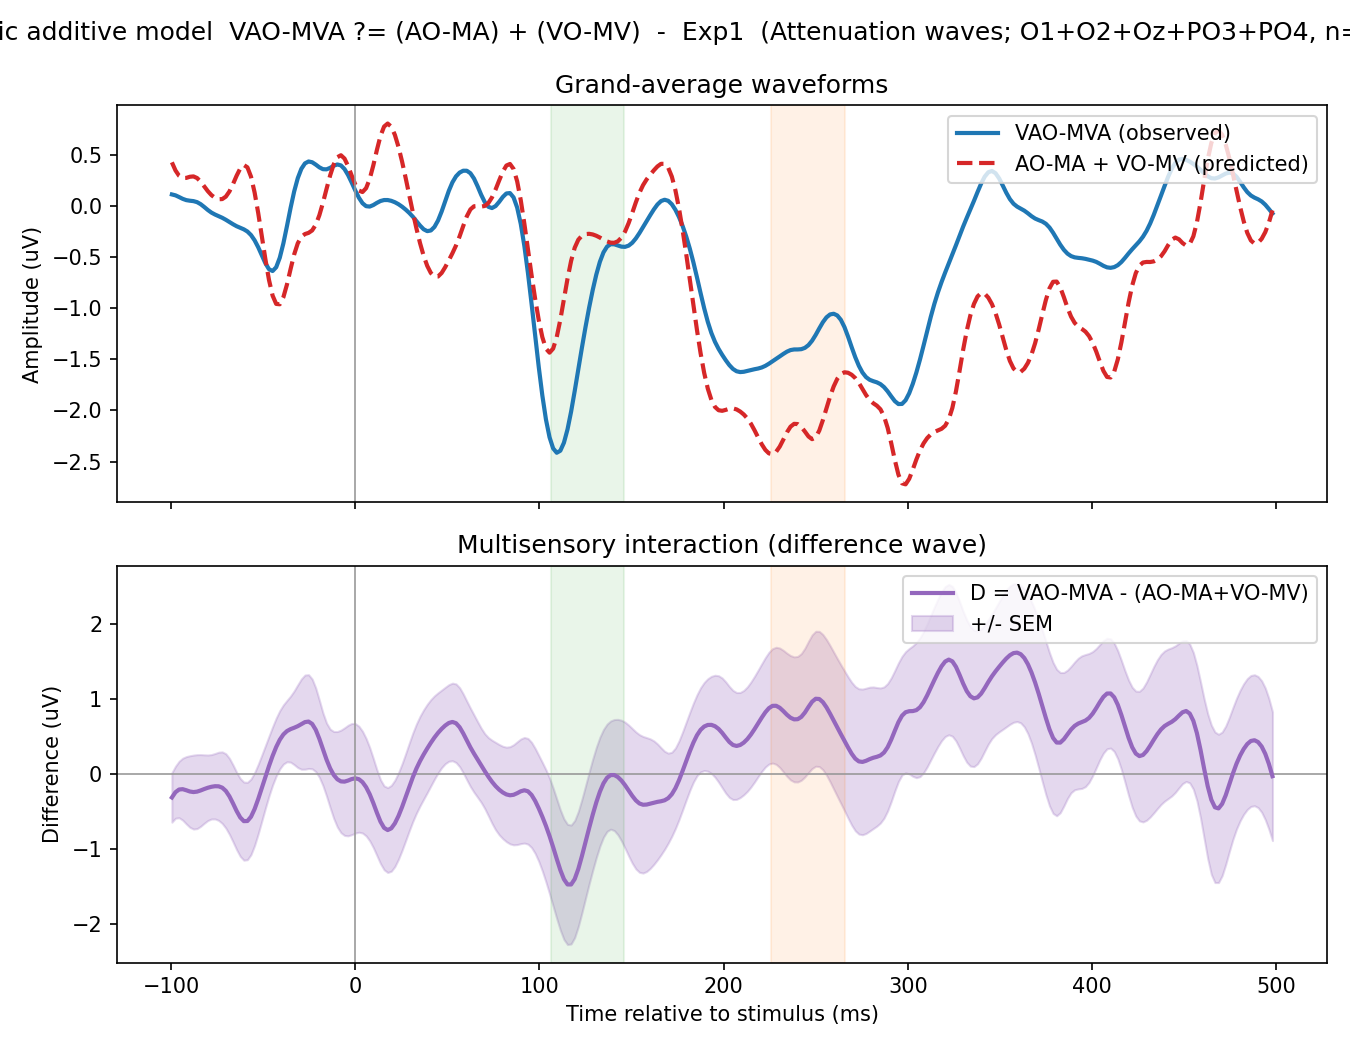
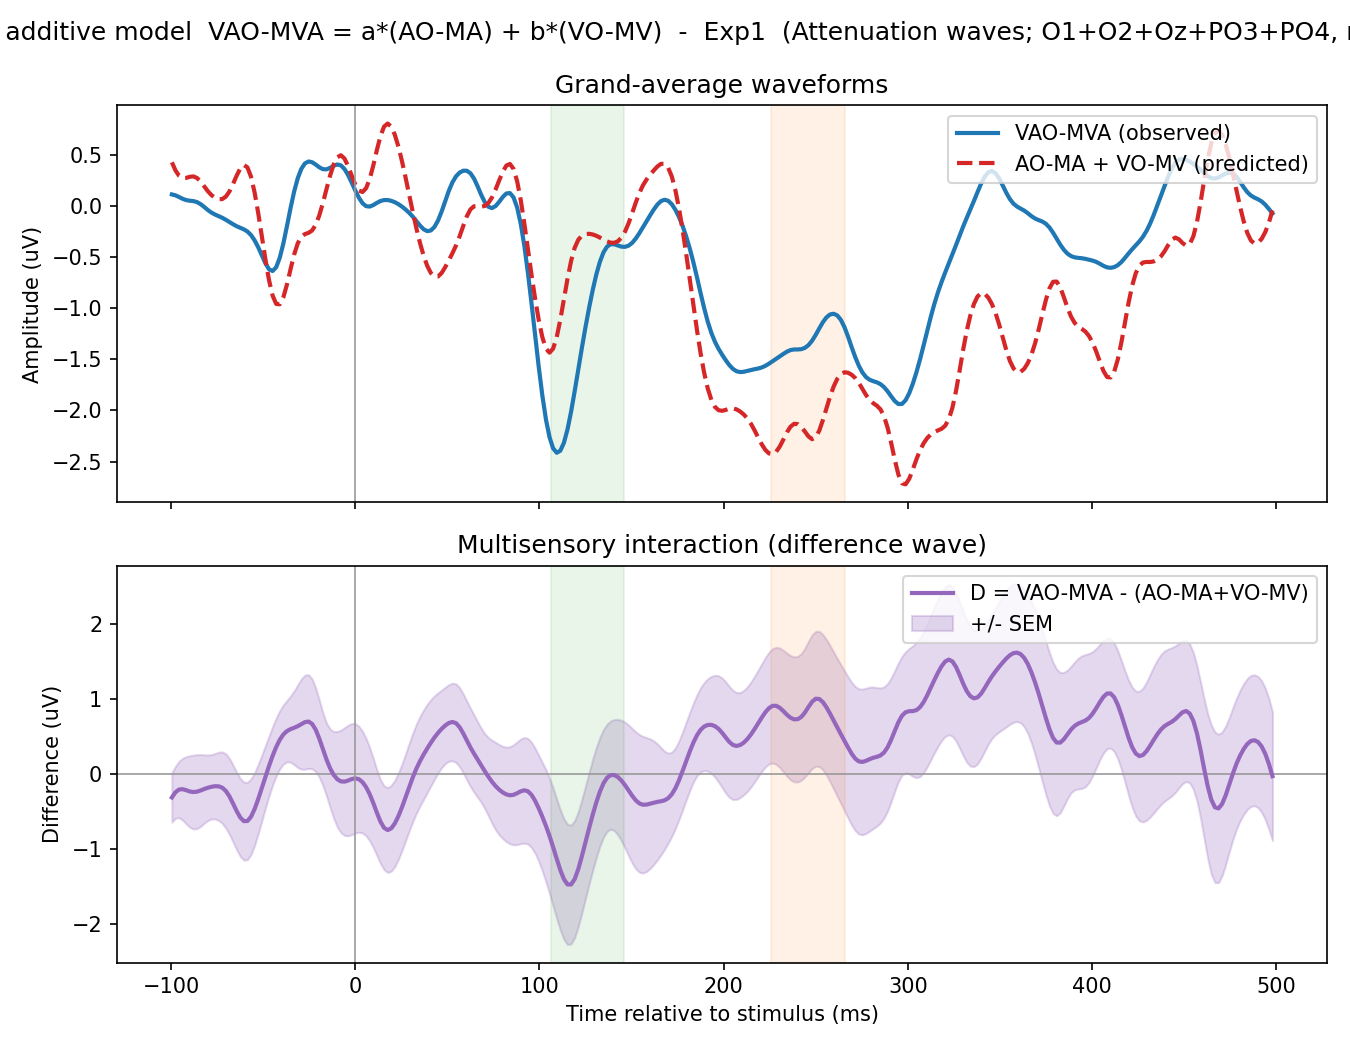
Clean up "?="

Changed region(s): [[0.0, 0.0, 1.0, 0.061]]

diff --git a/analysis/io_utils.py b/analysis/io_utils.py
@@ -274,7 +274,7 @@ ADDITIVITY_MODELS = {
     "replay": AdditivityModel(
         name="replay",
         label="Externally initiated / replay",
-        formula="VAO ?= AO + VO",
+        formula="VAO = a*AO + b*VO",
         target=WaveformExpression("VAO", ((AUDIOVISUAL_CONDITION, 1.0),)),
         audio=WaveformExpression("AO", ((AUDITORY_CONDITION, 1.0),)),
         visual=WaveformExpression("VO", ((VISUAL_CONDITION, 1.0),)),
@@ -282,7 +282,7 @@ ADDITIVITY_MODELS = {
     "self": AdditivityModel(
         name="self",
         label="Self-initiated / motor-corrected",
-        formula="MVA ?= MA + MV",
+        formula="MVA = a*MA + b*MV",
         target=WaveformExpression("MVA", ((SELF_AUDIOVISUAL_CONDITION, 1.0),)),
         audio=WaveformExpression("MA", ((SELF_AUDITORY_CONDITION, 1.0),)),
         visual=WaveformExpression("MV", ((SELF_VISUAL_CONDITION, 1.0),)),
@@ -290,7 +290,7 @@ ADDITIVITY_MODELS = {
     "attenuation": AdditivityModel(
         name="attenuation",
         label="Attenuation waves",
-        formula="VAO-MVA ?= (AO-MA) + (VO-MV)",
+        formula="VAO-MVA = a*(AO-MA) + b*(VO-MV)",
         target=WaveformExpression(
             "VAO-MVA",
             ((AUDIOVISUAL_CONDITION, 1.0), (SELF_AUDIOVISUAL_CONDITION, -1.0)),

diff --git a/analysis/learned_additivity.py b/analysis/learned_additivity.py
@@ -146,7 +146,7 @@ def analyse(experiment: str, site: tuple, model: io.AdditivityModel) -> None:
 
     # --- Figure --------------------------------------------------------------
     fig, axes = plt.subplots(1, 3, figsize=(15, 4.5))
-    fig.suptitle(f"Learned additive models  -  {experiment}  "
+    fig.suptitle(f"Learned additive models  {model.formula}  -  {experiment}  "
                  f"({model.label}; {site_label}, n={n})")
 
     # Panel 1: per-subject weights.

diff --git a/README.md b/README.md
@@ -19,19 +19,19 @@ The project now runs each additivity analysis at three levels:
 1. **Externally initiated / replay responses**
 
    ```text
-   VAO ?= AO + VO
+   VAO = a*AO + b*VO
    ```
 
 2. **Self-initiated, motor-corrected responses**
 
    ```text
-   MVA ?= MA + MV
+   MVA = a*MA + b*MV
    ```
 
 3. **Attenuation waves**
 
    ```text
-   VAO - MVA ?= (AO - MA) + (VO - MV)
+   VAO - MVA = a*(AO - MA) + b*(VO - MV)
    ```
 
 The third level is the most direct test of the manuscript's attenuation claim,
@@ -74,7 +74,7 @@ value of 1 almost everywhere. The audiovisual sensory response is a *compressed*
 version of the linear sum, sharpest around the auditory N1–P2 complex.
 
 **2. The attenuation effect, by contrast, is additive.**
-For the attenuation level `VAO - MVA ?= (AO - MA) + (VO - MV)`, no
+For the attenuation level `VAO - MVA = a*(AO - MA) + b*(VO - MV)`, no
 component-level deviation is reliable at any site in either experiment (all
 deviations |D| ≤ 0.9 µV, all p ≥ .24). The non-additivity seen in `replay` and
 `self` is shared between the two conditions and cancels in their difference. The
